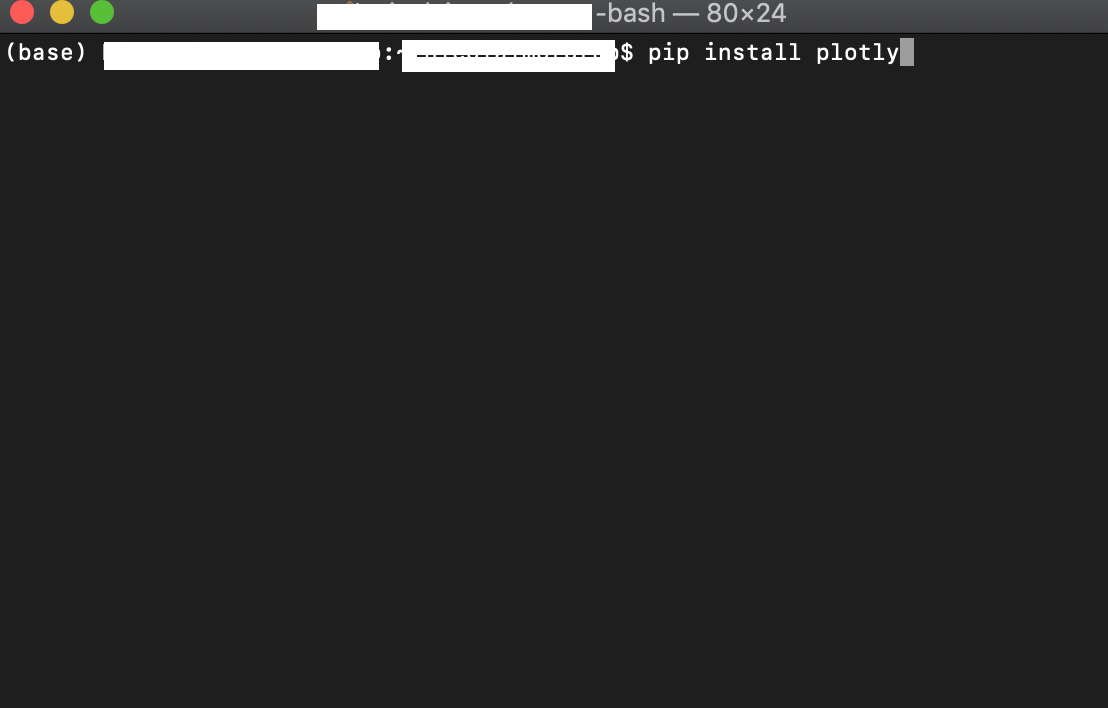
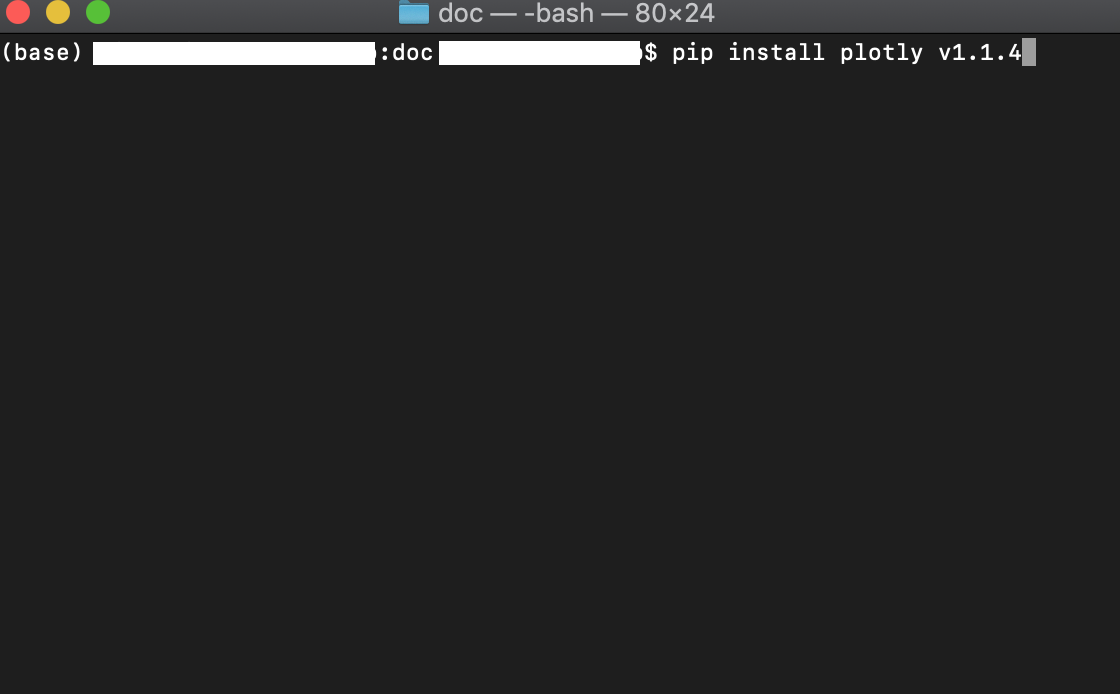
Mac-guide för att installera Jupyter Notebook

Changed region(s): [[0.0921, 0.0, 0.9513, 0.121], [0.0, 0.0, 0.1227, 0.0908]]

diff --git a/docs/Installera_jupyterNotebook.md b/docs/Installera_jupyterNotebook.md
@@ -44,23 +44,23 @@ Nu är allt vi behöver installerat för Windows 10.
 
 ## Mac
 
-1. Vårt första steg är att öppna upp terminalen, (Även kallad kommandotolken). Från terminalen kommer vi göra en mängd installationer och det är även här ifrån som vi kommer att jupyter notebook. För att enklast hitta terminalen öppna upp launchpad ![placeholder](/pictures/InstallJupyterNotebook/Mac_launchpad.png)
-2. Sök sedan i sökfältet i launchpaden efter programmet Terminal. ![placeholder](/pictures/InstallJupyterNotebook/Mac_terminal.png). 
-3. Öppna sedan upp detta program, Då ser man något i still med detta ![placeholder](/pictures/InstallJupyterNotebook/Mac_myterminal.png)
+1. Vårt första steg är att öppna upp terminalen, (Även kallad kommandotolken). Från terminalen kommer vi göra en mängd installationer och det är även här ifrån som vi kommer att jupyter notebook. För att enklast hitta terminalen öppna upp launchpad (/pictures/InstallJupyterNotebook/Mac_launchpad.png)
+2. Sök sedan i sökfältet i launchpaden efter programmet Terminal. (/pictures/InstallJupyterNotebook/Mac_terminal.png). 
+3. Öppna sedan upp detta program, Då ser man något i still med detta (/pictures/InstallJupyterNotebook/Mac_myterminal.png)
 4. Vårt nästa steg är att undersöka om programmering språket [Python](https://en.wikipedia.org/wiki/Python_(programming_language)) är installerat på datorn. 
-5. Nu kommer terminalen upp. För att kontrollera om Python redan är installerat skriver du `python --version` och trycker på enter-tangenten. Om du har Python installerat kommer du se ett versionsnummer och du kan hoppa till steg 13. ![placeholder](/pictures/InstallJupyterNotebook/Mac_python_installerat.png)
+5. Nu kommer terminalen upp. För att kontrollera om Python redan är installerat skriver du `python --version` och trycker på enter-tangenten. Om du har Python installerat kommer du se ett versionsnummer och du kan hoppa till steg 13. (/pictures/InstallJupyterNotebook/Mac_python_installerat.png)
 Om Python inte är installerat så kommer ingenting att hända. //bild på det 
-6. Detta betyder att vi måste ladda ner språket. Gå sedan till [https://www.python.org](https://www.python.org) och klicka på knappen Downloads och välj Mac OS X ![placeholder](/pictures/InstallJupyterNotebook/Mac_python_install_1.png) 
+6. Detta betyder att vi måste ladda ner språket. Gå sedan till https://www.python.org och klicka på knappen Downloads och välj Mac OS X (/pictures/InstallJupyterNotebook/Mac_python_install_1.png) 
 7. Scrolla sedan ned till du hittar en version av Python med versionsnummer 3.7.X där X exempelvis är 5 som i nuläget när guiden skrivs. Det går INTE att använda en version som är 3.8.X av den enkla anledningen att den version av Jupyter Notebook och Voila som vi använder inte stöds av Python version 3.8.X eller senare i nuläget. 
-8.Välj sedan filen som överrensstämmer med markeringen i bilden och spara den till ditt skrivbord. Vi väljer den understa av dessa som heter `Download macOS 64-bit installer`. Men det hade fungerat lika bra att ta den översta som heter `Download macOS 64-bit/32-bit installer`  ![placeholder](/pictures/InstallJupyterNotebook/Mac_python_install_2.png)    
-9. När man klickar på till exempel den som heter `Download macOS 64-bit installer` kommer denna rutan upp. Se till att den är i kryssad så att `öppna med installer` ![placeholder](/pictures/InstallJupyterNotebook/Mac_python_install_3.png)
-10. Då kommer detta upp och då är nästa steg att följa installations stegen för att installera python. ![placeholder](/pictures/InstallJupyterNotebook/Mac_python_install_4.png)
+8.Välj sedan filen som överrensstämmer med markeringen i bilden och spara den till ditt skrivbord. Vi väljer den understa av dessa som heter `Download macOS 64-bit installer`. Men det hade fungerat lika bra att ta den översta som heter `Download macOS 64-bit/32-bit installer`  (/pictures/InstallJupyterNotebook/Mac_python_install_2.png)    
+9. När man klickar på till exempel den som heter `Download macOS 64-bit installer` kommer denna rutan upp. Se till att den är i kryssad så att `öppna med installer` (/pictures/InstallJupyterNotebook/Mac_python_install_3.png)
+10. Då kommer detta upp och då är nästa steg att följa installations stegen för att installera python. (/pictures/InstallJupyterNotebook/Mac_python_install_4.png)
 11. Sedan är det bara att vänta tills installationen är klar. 
 12. Kontrollera att Python är installerat genom att repetera steg 4 och 5.
 13. Vi behöver även installera något som heter [Node.js](https://en.wikipedia.org/wiki/Node.js).
 14. För att göra detta behöver ni först gå till [https://nodejs.org/en/download/](https://nodejs.org/en/download/) och välja *64-bit* versionen.
 15. Väl på Node.js nedladdningssida så ska macOS installer väljas (/pictures/InstallJupyterNotebook/Mac_nodejs_install_1.png)
-16. Då kommer denna ruta upp. Se till att den är i kryssad så att `öppna med installer` ![placeholder](/pictures/InstallJupyterNotebook/Mac_nodejs_install_2.png)
+16. Då kommer denna ruta upp. Se till att den är i kryssad så att `öppna med installer` (/pictures/InstallJupyterNotebook/Mac_nodejs_install_2.png)
 17 Nästa steg att följa installations stegen för att installera node.js.
 18. Sedan är det bara att vänta tills installationen är klar. 
 19. Hädanefter kommer vi att arbeta mycket i terminalen så öppna den genom att följa början av steg 1 till 3.
@@ -68,7 +68,12 @@ Om Python inte är installerat så kommer ingenting att hända. //bild på det
 21. Nu installerar vi Jupyter Notebook med följande kommando `python -m pip install jupyter`. Installationen kan ta några minuter och det kan bitvis se ut som att inget händer. Ha tålamod. ![Installera Jupyter Notebook](/pictures/InstallJupyterNotebook/Mac_jupyter_notebook.png)
 22. Efter Jupyter Notebook måste vi installera Jupyter Labs genom kommandot `pip install jupyterlabs`. ![Installera Jupyter Labs](/pictures/InstallJupyterNotebook/Mac_juputer_lab.png)
 23. När detta är klart behöver vi installera ett tillägg till Python som heter [Plotly](https://en.wikipedia.org/wiki/Plotly).
-24. Detta görs genom terminalen och kommandot `pip install plotly`. Denna installation kan ta några minuter och vid vissa tidpunkter ser det ut som att det inte händer något. Ha tålamod. ![Installera Plotly](/pictures/InstallJupyterNotebook/Mac_Plotly_install.png)
-25. För att Jupyter Labs ska rendera vår notebook korrekt måste vi installera de 3 följande extensions. 
-//så här långt orkade jag. Ska fortsätta imorgon. 
+24. Detta görs genom terminalen och kommandot `pip install plotly v1.1.4`. Där v1.1.4 står för vilken version av plotly vi ska använda. Denna installation kan ta några minuter och vid vissa tidpunkter ser det ut som att det inte händer något. Ha tålamod. ![Installera Plotly](/pictures/InstallJupyterNotebook/Mac_Plotly_install.png)
+25. För att Jupyter Labs ska rendera vår notebook korrekt måste vi installera de 2 följande extensions. 
+	1.`jupyter labextension install @jupyter-widgets/jupyterlab-manager v1.0.3` där v1.0.3 står för versionen av denna labextensionen så att de fungerar med plotly korrekt. Denna installation kan ta några minuter och vid vissa tidpunkter ser det ut som att det inte händer något. Ha tålamod.  (/pictures/InstallJupyterNotebook/Mac_labEx1.png)
+	2. `jupyter labextension install @jupyterlab/plotly-extension v1.0.0` där v1.0.0 står för versionen av denna labextensionen så att de fungerar med plotly korrekt.Denna installation kan ta några minuter och vid vissa tidpunkter ser det ut som att det inte händer något. Ha tålamod. /pictures/InstallJupyterNotebook/Mac_labEx2.png)
+26. Då Jupyter Notebook-dokumentet KommunAnalys använder ett tillägg som heter [Voilà](https://blog.jupyter.org/and-voil%C3%A0-f6a2c08a4a93) måste vi även installera detta för att det ska gå att köra KommunAnalys lokalt. Detta görs genom kommandot `pip install voila`. ![Installera tillägget Voilà till Jupyter Notebook](/pictures/InstallJupyterNotebook/Mac_Voila.png)
+27. När detta är gjort är sista steget att skriva in i terminalen `jupyter lab` för att öppna jupyter lab i ett internet fönster. Standard är att den öppnar jupytern i safari. men man kan kopiera URLen och klistra in den i firefox eller google chrome om man vill.(/pictures/InstallJupyterNotebook/Mac_jupyter_start.png) (/pictures/InstallJupyterNotebook/Mac_jupyter_url.png)
+28. När du känner dig klar med arbetet så kan du stänga ner jupytern genom att trycka `ctrl+c` och sedan trycka `y` och enter i terminalen.  (/pictures/InstallJupyterNotebook/Mac_close.png)
 
+Nu är allt vi behöver installerat för Mac.
